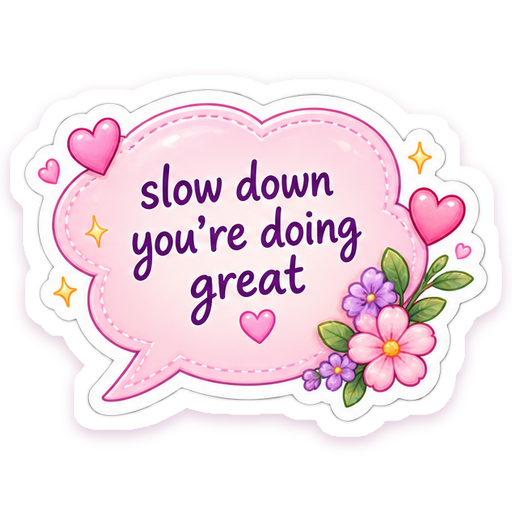
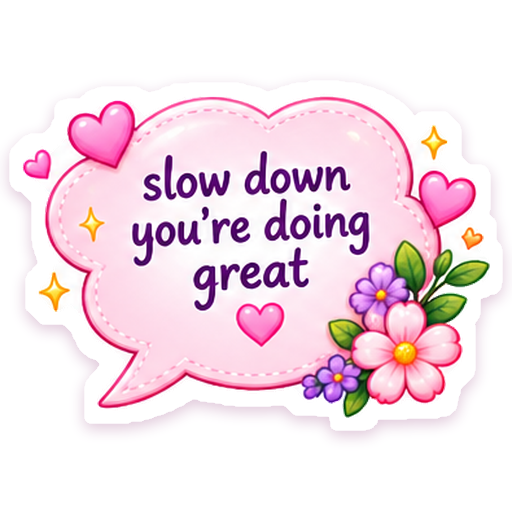
Self-Care: new versions of the 5 affirmations and a new Meditation sticker
The affirmations sheet is replaced by the owner's updated artwork (painted
checkerboard removed). Meditation now uses its own PNG instead of the
sticker cut from the first Self-Care sheet.

Claude-Session: https://claude.ai/code/session_01HFDEQ91mwXQ77VBhcg7bMb

Changed region(s): [[0.0312, 0.1562, 0.9688, 0.875]]

diff --git a/Tools/generate_assets.py b/Tools/generate_assets.py
@@ -332,7 +332,7 @@ PACKS = [
         "stickers": [
             png("SelfCare/sheet-1.png", "🧘♀ 💕", "Yoga Time", "yoga time exercise", count=17, index=0,
                 label="Yoga Time"),
-            png("SelfCare/sheet-1.png", "🧘♀ 🌿", "Meditation", "meditation calm zen", count=17, index=1,
+            png("SelfCare/02-meditation.png", "🧘♀ 🪷", "Meditation", "meditation calm zen yoga lotus",
                 label="Meditation"),
             png("SelfCare/sheet-1.png", "🥗 💚", "Healthy Food", "healthy food salad", count=17, index=2,
                 label="Healthy Food"),
